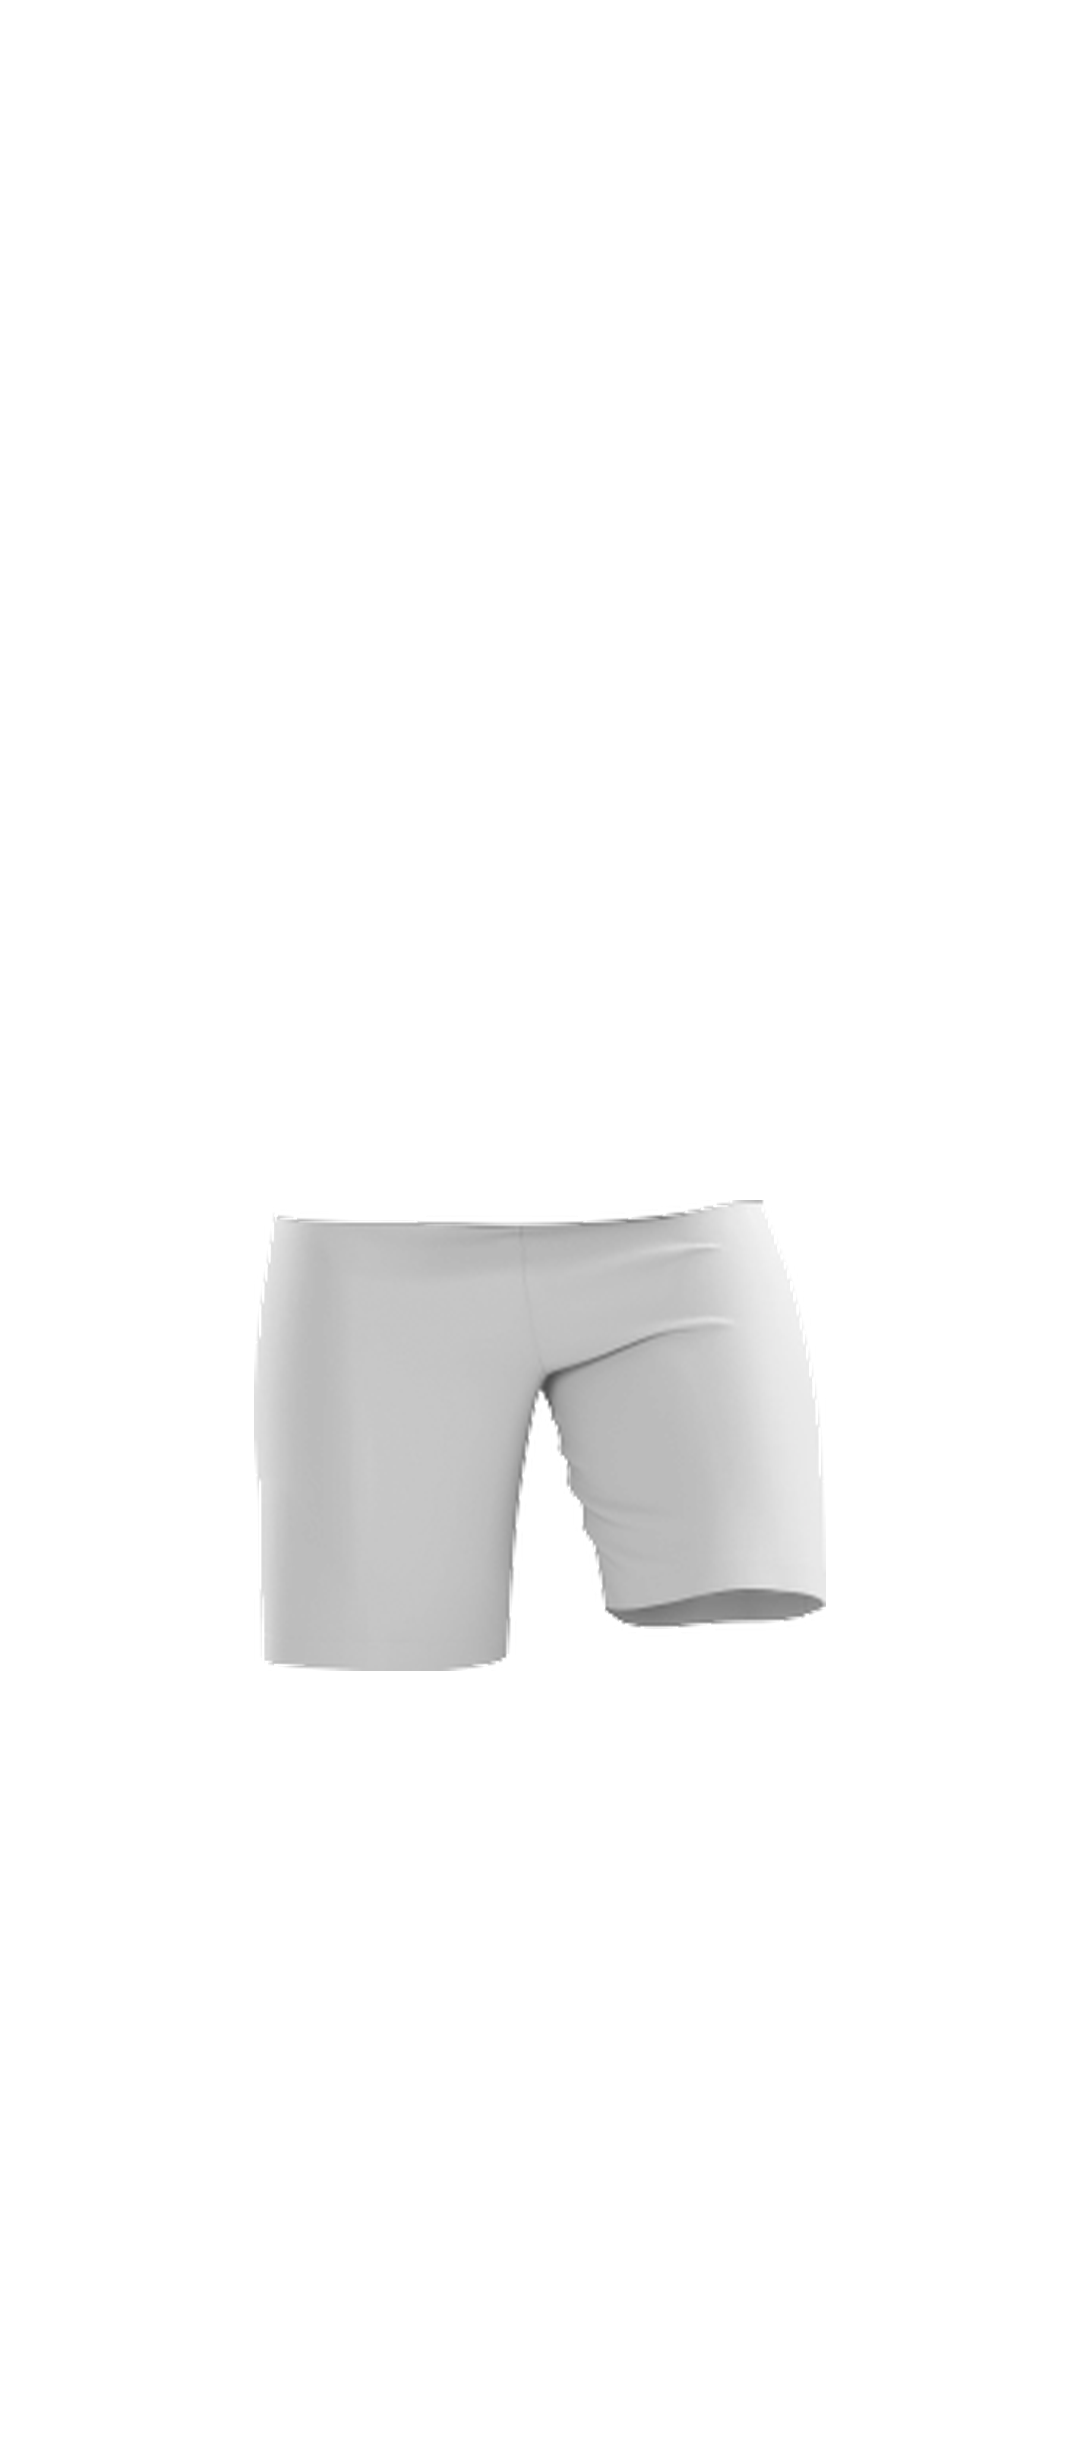
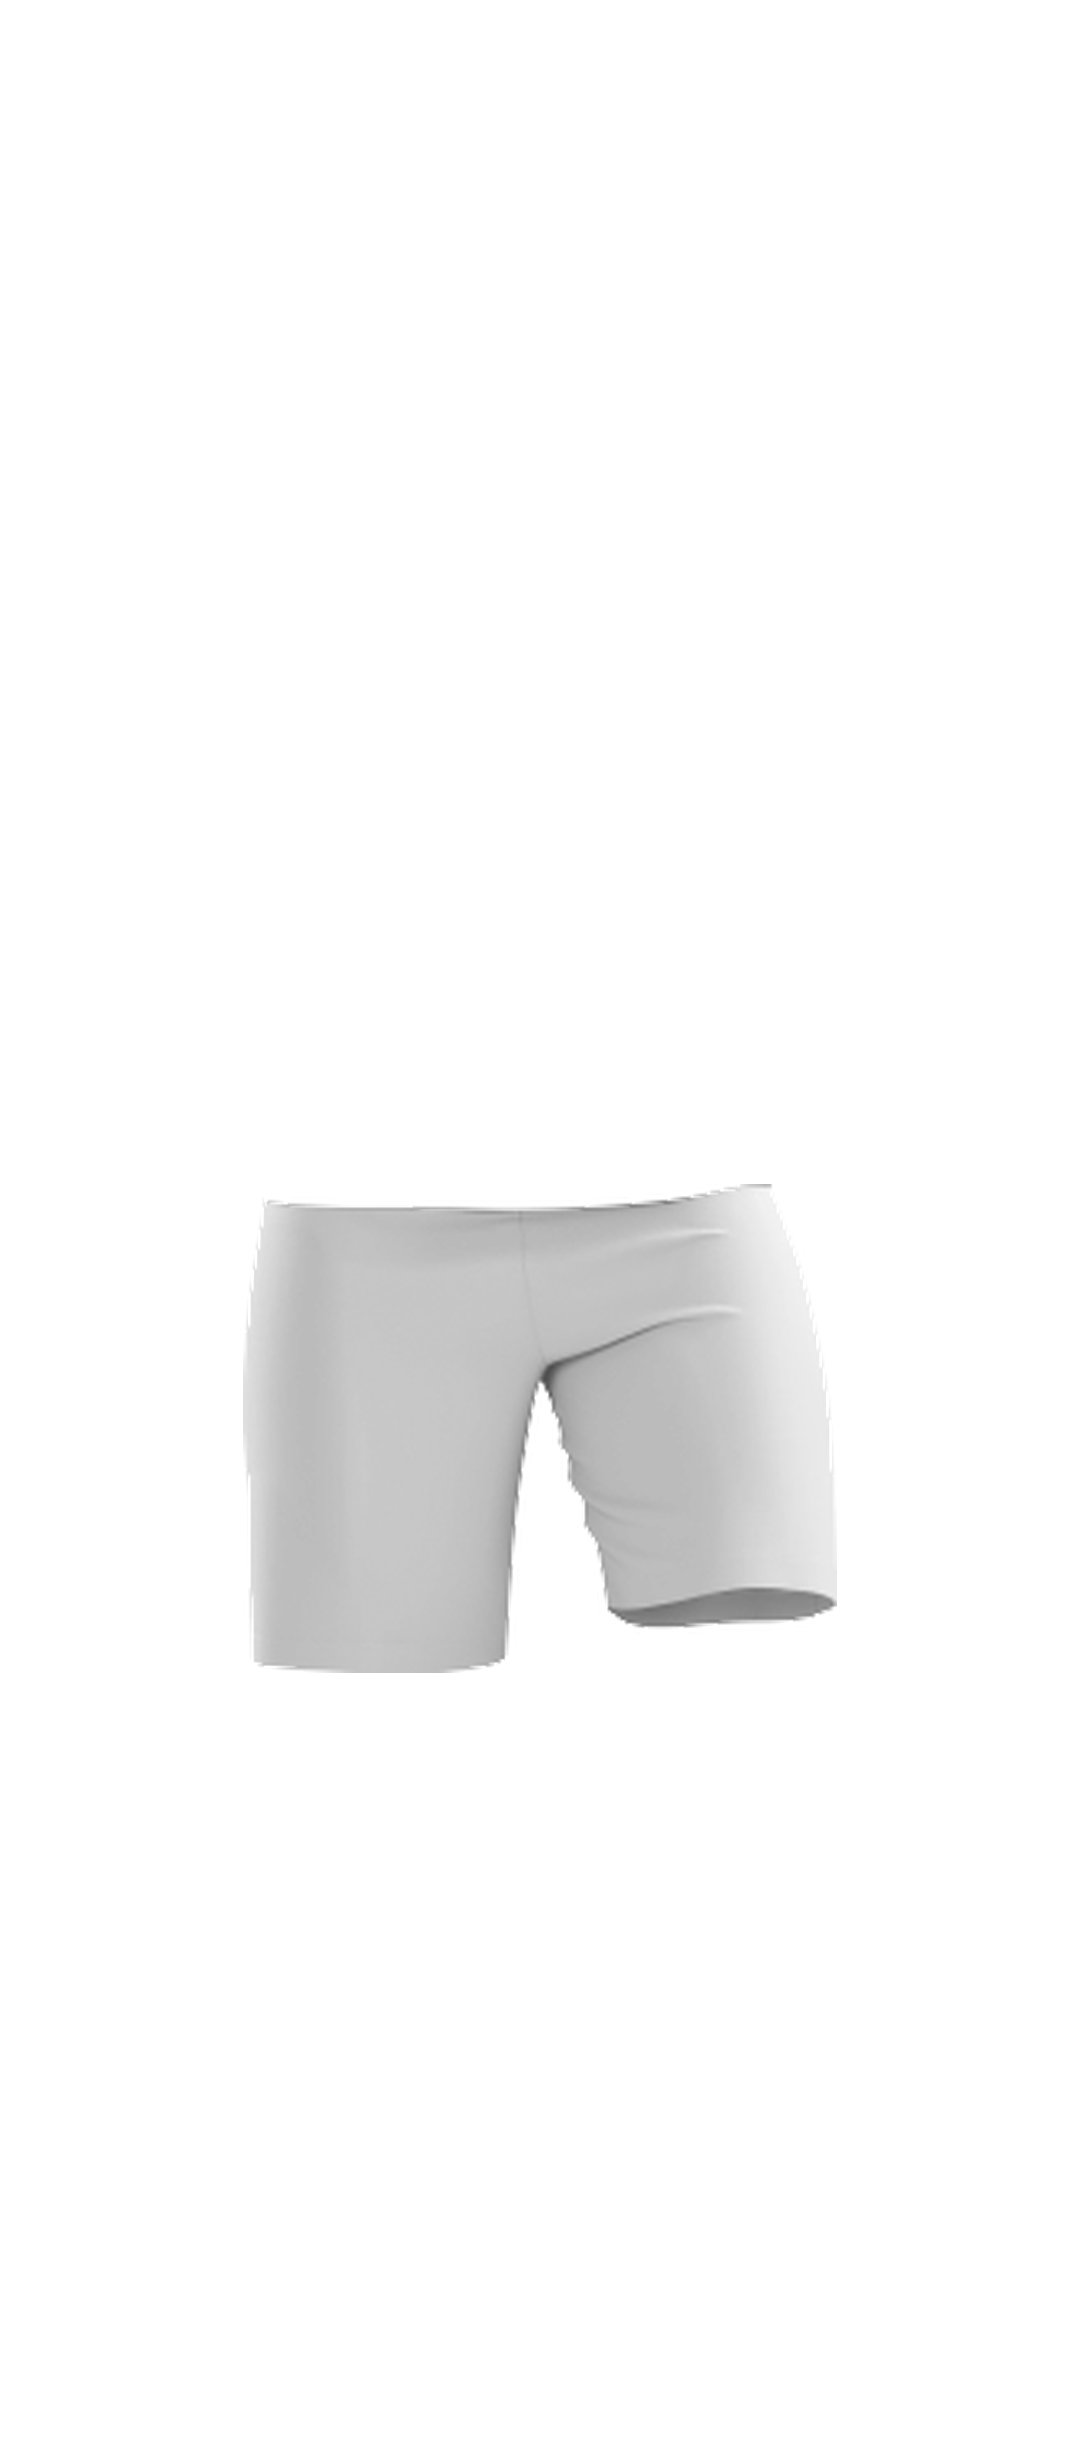
Alternador Peças/Jogador no cabeçalho + jogador de kit cinza liso
O recorte por cor estava a destruir o jogador (buracos no rosto e nos
braços): a pele e o cabelo escuro não se separam do kit de forma fiável.
Troca de estratégia — o jogador é REGERADO com kit cinza liso e fica
INTACTO, sem nada apagado. O cinza neutro que sobra nas folgas lê-se
como sombra e não briga com a cor que o cliente escolher.

As escalas e topos das peças passam a sair das bandas do kit dele,
medidas por luminância: gola y105, cava y196, bainha do calção y408,
cano da meia y436, tornozelo y560.

No cabeçalho entra um alternador entre os dois ambientes de teste —
as peças sozinhas ou vestidas no jogador. A variante é lida do URL no
arranque, por isso a troca recarrega a página.

diff --git a/src/components/kit/KitLab.tsx b/src/components/kit/KitLab.tsx
@@ -1,7 +1,8 @@
 import { useEffect, useState } from 'react';
-import { ArrowLeft, BadgePlus, RotateCcw, Shirt, Type } from 'lucide-react';
+import { ArrowLeft, BadgePlus, PersonStanding, RotateCcw, Shirt, Type } from 'lucide-react';
 import { useFlowStore } from '@/store/useFlowStore';
 import { useKitStore } from '@/store/useKitStore';
+import { VARIANTE_JOGADOR } from '@/lib/kitDemo';
 import { PECAS_KIT } from '@/types/kit';
 import { cn } from '@/lib/utils';
 import { Button } from '../ui/button';
@@ -22,6 +23,12 @@ const MENU: { id: MenuTopo; rotulo: string; Icone: typeof Shirt }[] = [
   { id: 'estampas', rotulo: 'Modelos / Estampas', Icone: Shirt },
   { id: 'nome', rotulo: 'Nome e Número', Icone: Type },
   { id: 'escudo', rotulo: 'Escudo e Logos', Icone: BadgePlus },
+];
+
+/** Ambientes de teste, alternáveis no cabeçalho (`?lab=`). */
+const VARIANTES: { id: 'kit' | 'jogador'; rotulo: string; Icone: typeof Shirt }[] = [
+  { id: 'kit', rotulo: 'Peças', Icone: Shirt },
+  { id: 'jogador', rotulo: 'Jogador', Icone: PersonStanding },
 ];
 
 export function KitLab() {
@@ -82,7 +89,32 @@ export function KitLab() {
           ))}
         </nav>
 
-        <span className="ml-auto text-xs text-muted-foreground md:ml-0">
+        {/* alternador dos dois ambientes de teste: as peças sozinhas
+            (versão original) ou vestidas no jogador. A variante é lida do
+            URL no arranque, por isso a troca recarrega a página. */}
+        <div className="ml-auto flex items-center rounded-md border p-0.5 md:ml-0">
+          {VARIANTES.map(({ id, rotulo, Icone }) => {
+            const ativa = (id === 'jogador') === VARIANTE_JOGADOR;
+            return (
+              <button
+                key={id}
+                onClick={() => {
+                  if (!ativa) window.location.search = `?lab=${id}`;
+                }}
+                title={`Ver ${rotulo.toLowerCase()}`}
+                className={cn(
+                  'flex items-center gap-1.5 rounded px-2.5 py-1 text-xs font-semibold transition',
+                  ativa ? 'bg-foreground text-background' : 'text-muted-foreground hover:bg-accent',
+                )}
+              >
+                <Icone className="h-3.5 w-3.5" />
+                {rotulo}
+              </button>
+            );
+          })}
+        </div>
+
+        <span className="hidden text-xs text-muted-foreground lg:inline">
           {sincronizadas.length} de {PECAS_KIT.length} peças sincronizadas
         </span>
         <Button variant="outline" size="sm" onClick={reset}>

diff --git a/src/lib/kitReal.ts b/src/lib/kitReal.ts
@@ -73,16 +73,16 @@ const CAIXAS_PADRAO: Record<PecaKit, Record<LadoKit, Caixa>> = {
     (cozedura de moldes/jog — perfil "jogador" do montar-originais.py). */
 const CAIXAS_JOGADOR: Record<PecaKit, Record<LadoKit, Caixa>> = {
   camisola: {
-    frente: { x: 347, y: 475, w: 392, h: 771 },
-    verso: { x: 343, y: 475, w: 393, h: 779 },
+    frente: { x: 345, y: 484, w: 396, h: 782 },
+    verso: { x: 341, y: 484, w: 398, h: 790 },
   },
   calcao: {
-    frente: { x: 254, y: 1200, w: 572, h: 471 },
-    verso: { x: 243, y: 1200, w: 594, h: 465 },
+    frente: { x: 243, y: 1184, w: 594, h: 489 },
+    verso: { x: 232, y: 1184, w: 617, h: 482 },
   },
   meiao: {
-    frente: { x: 268, y: 1748, w: 545, h: 481 },
-    verso: { x: 290, y: 1748, w: 520, h: 465 },
+    frente: { x: 280, y: 1720, w: 560, h: 520 },
+    verso: { x: 272, y: 1720, w: 568, h: 505 },
   },
 };
 

diff --git a/scripts/montar-originais.py b/scripts/montar-originais.py
@@ -38,18 +38,19 @@ PERFIS = {
         topos={'camisa': 8, 'calcao': 244, 'meiao': 405},
         botas=True,
     ),
-    # Escalas e topos resolvidos a partir das FRONTEIRAS DE PELE do jogador
-    # recortado (scripts/recortar-jogador.py): gola no pescoço (y104), bainha
-    # das mangas na cava (y193), bainha do calção no topo do joelho (y418),
-    # cano da meia sob o joelho (y437) e pé dentro da bota (y557).
+    # Ambiente de teste: o jogador tem KIT CINZA LISO e fica INTACTO (nada
+    # é apagado — o cinza neutro que sobra nas folgas lê-se como sombra e
+    # não briga com a cor escolhida). Escalas e topos medidos nas bandas do
+    # kit dele: gola y105, cava/braços y196, bainha do calção y408, cano da
+    # meia y436, tornozelo/bota y560.
     'jogador': dict(
         saida='public/moldes/jog',
-        fatores={'camisa': 0.71, 'calcao': 0.79, 'meiao': 0.64},
-        topos={'camisa': 102, 'calcao': 300, 'meiao': 437},
+        fatores={'camisa': 0.72, 'calcao': 0.82, 'meiao': 0.70},
+        topos={'camisa': 104, 'calcao': 296, 'meiao': 430},
         botas=False,
-        # joelhos do jogador (wrapper x): cada meia do par ancora à sua
-        # perna — divisão só de posicionamento, pixels intactos
-        pernas={'frente': (83.9, 173.2), 'verso': (90.9, 177.3)},
+        # pernas do jogador (wrapper x, na zona da meia): cada meia do par
+        # ancora à sua perna — divisão só de posicionamento
+        pernas={'frente': (92.0, 176.0), 'verso': (89.0, 177.0)},
     ),
 }
 PERFIL = PERFIS['padrao']
